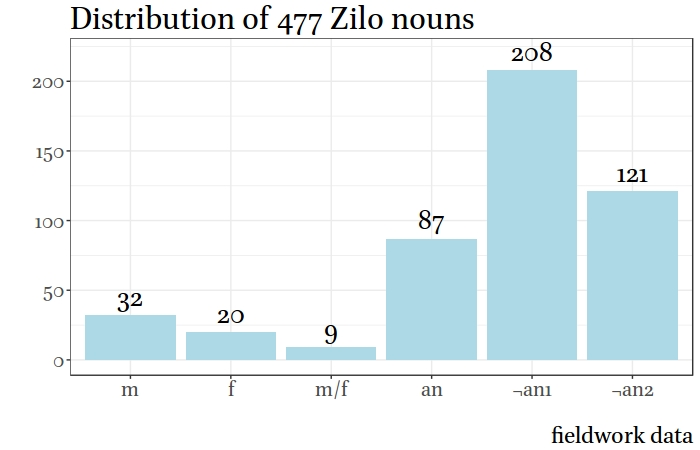
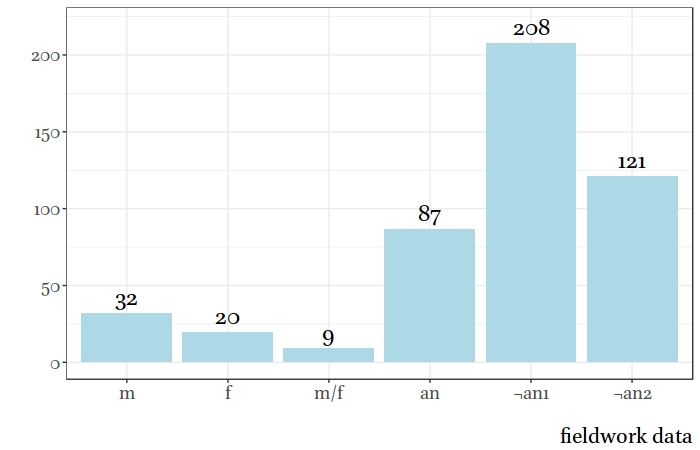
add last variant

diff --git a/18.05.11_Verhees_Moroz_Zilo_gender.tex b/18.05.11_Verhees_Moroz_Zilo_gender.tex
@@ -22,20 +22,19 @@
 \framepic{images/01-map-all}
 
 \begin{frame}{Andi and their neighbors}
-\Large
 \begin{itemize}
 \item Nakh
 \begin{itemize}
-\item \Large Chechen
+\item Chechen
 \end{itemize}
 \item Avaro-Andic-Tsezic
 \begin{itemize}
-\item \Large Avar
-\item \Large Andi
+\item Avar
+\item Andi
 \begin{itemize}
-\item \Large Botlikh
-\item \Large Karata
-\item \Large Andi
+\item Botlikh
+\item Karata
+\item Andi
 \end{itemize}
 \end{itemize}
 \end{itemize} \pause
@@ -50,7 +49,6 @@ All Andi speakers are multilingual:
 
 % Введение
 \begin{frame}{Gender systemes}
-\Large 
 \begin{itemize}
 \item The impact the systems have most notably on verbal agreement, but also on some adjective, numeral, adverbial, pronominal, and postpositional agreement. 
 \item Some POS agree with absolutive argument of the clause. Some  POS agree with its head.
@@ -68,15 +66,15 @@ All Andi speakers are multilingual:
 \begin{tabular}{|l|l|c|c|c|c|c|c|c|c|}
 \hline
 \multicolumn{3}{|c|}{}  & \textsc{m} & \textsc{f} & \textsc{an} & \textsc{¬an} 1 & \textsc{¬an} 2 & \textsc{¬an} 3 & \textsc{¬h} \\ \hline
-\multirow{2}{*}{\cite{alekseev99}} & \multirow{ 2}{*}{Andi} & \textsc{sg} & \multirow{2}{*}{\textit{w}} & \multirow{2}{*}{\textit{j}} & \textit{b} & \multirow{2}{*}{\textit{b}} & \multirow{2}{*}{\textit{r}} & \multicolumn{2}{|c|}{\multirow{2}{*}{\textit{-}}}  \\ \cline{3-3} \cline{6-6}
+\multirow{2}{*}{\citep{alekseev99}} & \multirow{ 2}{*}{Andi} & \textsc{sg} & \multirow{2}{*}{\textit{w}} & \multirow{2}{*}{\textit{j}} & \textit{b} & \multirow{2}{*}{\textit{b}} & \multirow{2}{*}{\textit{r}} & \multicolumn{2}{|c|}{\multirow{2}{*}{\textit{-}}}  \\ \cline{3-3} \cline{6-6}
  &  & \textsc{pl} & \textit{} & \textit{} & \textit{j} & \textit{} & \textit{} & \multicolumn{2}{|c|}{} \\ \hline
-\multirow{2}{*}{\cite{salimov10}} & \multirow{2}{*}{Gagatli} & \textsc{sg} & \multirow{2}{*}{\textit{w}} & \multirow{2}{*}{\textit{j}} & \textit{b} & \multirow{2}{*}{\textit{b}} & \multirow{2}{*}{\textit{r}} & \multicolumn{2}{|c|}{\multirow{2}{*}{\textit{-}}} \\ \cline{3-3} \cline{6-6}
+\multirow{2}{*}{\citep{salimov10}} & \multirow{2}{*}{Gagatli} & \textsc{sg} & \multirow{2}{*}{\textit{w}} & \multirow{2}{*}{\textit{j}} & \textit{b} & \multirow{2}{*}{\textit{b}} & \multirow{2}{*}{\textit{r}} & \multicolumn{2}{|c|}{\multirow{2}{*}{\textit{-}}} \\ \cline{3-3} \cline{6-6}
  &  & \textsc{pl} & \textit{} & \textit{} & \textit{j} & \textit{} & \textit{} & \multicolumn{2}{|c|}{} \\ \hline
-\multirow{2}{*}{\cite{suleymanov57}} & \multirow{2}{*}{Rikwani} & \textsc{sg} & \multirow{2}{*}{\textit{w}} & \textit{j} & \textit{b} & \multirow{2}{*}{\textit{b}} & \multirow{2}{*}{\textit{r}} & \textit{b} & \multirow{2}{*}{\textit{-}} \\ \cline{3-3} \cline{6-6} \cline{9-9}
+\multirow{2}{*}{\citep{suleymanov57}} & \multirow{2}{*}{Rikwani} & \textsc{sg} & \multirow{2}{*}{\textit{w}} & \textit{j} & \textit{b} & \multirow{2}{*}{\textit{b}} & \multirow{2}{*}{\textit{r}} & \textit{b} & \multirow{2}{*}{\textit{-}} \\ \cline{3-3} \cline{6-6} \cline{9-9}
  & & \textsc{pl} & \textit{} & \textit{} & \textit{j} & \textit{} & \textit{} & \textit{r} &  \\ \hline
 \multirow{2}{*}{fieldwork} & \multirow{2}{*}{Zilo} & \textsc{sg} & \multirow{2}{*}{\textit{w}} & \multirow{2}{*}{\textit{j}} & \textit{b} & \multirow{2}{*}{\textit{b}} & \multirow{2}{*}{\textit{r}} & \multicolumn{2}{|c|}{\multirow{2}{*}{\textit{-}}}  \\ \cline{3-3} \cline{6-6}
  & & \textsc{pl} & \textit{} & \textit{} & \textit{j}& \textit{} & \textit{} & \multicolumn{2}{|c|}{}  \\ \hline
-\multirow{2}{*}{\cite{suleymanov57}} & \multirow{2}{*}{Muni} & \textsc{sg} & \multirow{2}{*}{\textit{w}} & \multirow{2}{*}{\textit{j}} & \multicolumn{4}{|c|}{\multirow{2}{*}{\textit{-}}}  & \multirow{2}{*}{\textit{b}} \\ \cline{3-3}
+\multirow{2}{*}{\citep{suleymanov57}} & \multirow{2}{*}{Muni} & \textsc{sg} & \multirow{2}{*}{\textit{w}} & \multirow{2}{*}{\textit{j}} & \multicolumn{4}{|c|}{\multirow{2}{*}{\textit{-}}}  & \multirow{2}{*}{\textit{b}} \\ \cline{3-3}
  & & \textsc{pl} & \textit{} & \textit{} & \multicolumn{4}{|c|}{} &  \\ \hline
 \end{tabular}
 \normalsize
@@ -101,13 +99,13 @@ All Andi speakers are multilingual:
 \begin{tabular}{|l|l|c|c|c|c|c|c|c|}
 \hline
 \multicolumn{ 3}{|l|}{}& \textsc{m} & \textsc{f} & \multicolumn{ 4}{c|}{\textsc{¬h}} \\ \hline
-\multirow{ 2}{*}{\cite[41]{alekseev97}} & \multirow{ 2}{*}{Avar} & \textsc{sg} & \textit{w} & \textit{j} & \multicolumn{ 4}{c|}{\textit{b}} \\ \cline{ 3- 9}
+\multirow{ 2}{*}{\citep{alekseev97}} & \multirow{ 2}{*}{Avar} & \textsc{sg} & \textit{w} & \textit{j} & \multicolumn{ 4}{c|}{\textit{b}} \\ \cline{ 3- 9}
 \multicolumn{ 1}{|l|}{} & \multicolumn{ 1}{l|}{} & \textsc{pl} & \multicolumn{ 6}{c|}{\textit{r/l}} \\ \hline
-\multirow{ 2}{*}{\cite[41]{magomedbekova71}} & \multirow{ 2}{*}{Karata} & \textsc{sg} & \textit{w} & \textit{j} & \multicolumn{ 4}{c|}{\textit{b}} \\ \cline{ 3- 9}
+\multirow{ 2}{*}{\citep{magomedbekova71}} & \multirow{ 2}{*}{Karata} & \textsc{sg} & \textit{w} & \textit{j} & \multicolumn{ 4}{c|}{\textit{b}} \\ \cline{ 3- 9}
 \multicolumn{ 1}{|l|}{} & \multicolumn{ 1}{l|}{} & \textsc{pl} & \multicolumn{ 2}{c|}{\textit{b}} & \multicolumn{ 4}{c|}{\textit{r}} \\ \hline
-\multirow{ 2}{*}{\cite[253--254]{gudava62}} & \multirow{ 2}{*}{Botlikh} & \textsc{sg} & \textit{w} & \textit{j} & \multicolumn{ 4}{c|}{\textit{b/m}} \\ \cline{ 3- 9}
+\multirow{ 2}{*}{\citep{gudava62}} & \multirow{ 2}{*}{Botlikh} & \textsc{sg} & \textit{w} & \textit{j} & \multicolumn{ 4}{c|}{\textit{b/m}} \\ \cline{ 3- 9}
 \multicolumn{ 1}{|l|}{} & \multicolumn{ 1}{l|}{} & \textsc{pl} & \multicolumn{ 2}{c|}{\textit{b}} & \multicolumn{ 4}{c|}{\textit{r/n}} \\ \hline
-\multirow{ 2}{*}{\cite[21--22]{nichols94}} & \multirow{ 2}{*}{Chechen} & \textsc{sg} & \textit{w} & \textit{j} & \multirow{ 2}{*}{\textit{j}} & \multirow{ 2}{*}{\textit{d}} & \multirow{ 2}{*}{\textit{b}} & \textit{b} \\ \cline{ 3- 5} \cline{ 9- 9}
+\multirow{ 2}{*}{\citep{nichols94}} & \multirow{ 2}{*}{Chechen} & \textsc{sg} & \textit{w} & \textit{j} & \multirow{ 2}{*}{\textit{j}} & \multirow{ 2}{*}{\textit{d}} & \multirow{ 2}{*}{\textit{b}} & \textit{b} \\ \cline{ 3- 5} \cline{ 9- 9}
 \multicolumn{ 1}{|l|}{} & \multicolumn{ 1}{l|}{} & \textsc{pl} & \textit{b} & \textit{d} &  & & & \textit{d} \\ \hline
 \end{tabular}
 \vfill
@@ -117,11 +115,11 @@ All Andi speakers are multilingual:
 \end{itemize}
 \end{frame}
 
-\framepic{images/02-zilo-classes}{}
+\framepic{images/02-zilo-classes}{\alert{\Large Distribution of 477 Zilo nouns}}
 
 \framecard[colorblue]{{\color{colorwhite} \huge Gender attribution experiment}}
 
-\begin{frame}{Experiment: set up}
+\begin{frame}{Experiment: Set up}
 \alert{How speakers decide about new words?}
 \begin{itemize}
 \item collect 25 native and 25 loan words of \textsc{an} 1 gender
@@ -133,7 +131,7 @@ All Andi speakers are multilingual:
 \end{itemize}
 \end{frame}
 
-\begin{frame}{Experiment: words}
+\begin{frame}{Experiment: Selected Words}
 \begin{multicols}{2}
 \begin{itemize}
 \item[22]    kots'i broom
@@ -167,68 +165,70 @@ All Andi speakers are multilingual:
 \end{multicols}
 \end{frame}
 
-\begin{frame}{Inter-rater reliability}
-Заданные вопросы можно было бы переиначить в рамках статистической задачи измерения согласия. Мы будем использовать метода перечисленные в работе \citep{hallgren12}.
-
-\begin{block}{Процент согласия}
-высчитывается как количество случае абсолютного согласия:
-$\frac{79}{106} = 0.745283$
-\end{block}
-\begin{block}{Fleiss' κ}
-Fleiss' κ for 16 Raters = 0.849 , z = 95.7, p-value = 0
+\begin{frame}{Experiment: Inter-rater Reliability}
+\small
+\begin{tabular}{|l|r|r|r|l|}
+\hline
+ & \multicolumn{1}{l|}{\% agreem.} & \multicolumn{1}{l|}{Fleiss' Kappa} & \multicolumn{1}{l|}{z-score} & \citep{fleiss71} \\ \hline
+all stimuli & 74.5 & 0.849 & 95.7 & Almost perfect agreement\\ \hline
+native stimuli & 84.2 & 0.937 & 77.5 & Almost perfect agreement \\ \hline
+borowings & 63.3 & 0.732 & 56.1 & Substantial agreement \\ \hline
+\end{tabular}
+\normalsize
+\vfill
+\pause
 \begin{itemize}
-\item    Poor agreement — Less than 0.20
-\item    Fair agreement — 0.20 to 0.40
-\item    Moderate agreement — 0.40 to 0.60
-\item    Good agreement — 0.60 to 0.80
-\item    Very good agreement — 0.80 to 1.00
+\item very high agreement among speakers
+\item very high but not ideal agreement  among speakers in native lexicon
+\item smaller but still high agreement  among speakers in borrowing lexicon
 \end{itemize}
-\end{block}
 \end{frame}
 
-\begin{frame}{Слова с вариативностью}
-27 вариативных слов; 16 с более чем одним респондентами: \bigskip\\
+\begin{frame}{Experiment: Variable Words}
+27 variable words with more then one speaker: \bigskip\\
 
 \small
 \begin{tabular}{|l|l|l|l|l|l|}
 \hline
-id & зиловский & русский & источник & b & r \\ \hline
-45 & patʃka & пачка & loan & 3 & 13 \\ \hline
-64 & antena & антенна & loan & 3 & 13 \\ \hline
-101 & paket & пакет & loan & 3 & 13 \\ \hline
-17 & χur & поле, огород & native & 4 & 12 \\ \hline
-44 & provod & провод & loan & 4 & 12 \\ \hline
-70 & ɡol & гол & loan & 5 & 11 \\ \hline
-21 & simkarta & сим-карта & loan & 6 & 10 \\ \hline
-24 & zatʃetka & зачетка & loan & 6 & 10 \\ \hline
-2 & vaɡon & вагон & loan & 9 & 7 \\ \hline
-20 & odoruk'a & бабочка & native & 9 & 7 \\ \hline
-39 & kalendarʲ & календарь & loan & 9 & 7 \\ \hline
-75 & plastɨrʲ & пластырь & loan & 10 & 6 \\ \hline
-41 & sputnʲik & спутник & loan & 12 & 4 \\ \hline
-98 & raketa & ракета & loan & 12 & 4 \\ \hline
-71 & kometa & комета & loan & 14 & 2 \\ \hline
-72 & lift & лифт & loan & 14 & 2 \\ \hline
+id & Zilo & English & source & \textsc{an} 1 & \textsc{an} 2 \\ \hline
+45 & patʃka & packet & loan & 3 & 13 \\ \hline
+64 & antena & antenna & loan & 3 & 13 \\ \hline
+101 & paket & packet & loan & 3 & 13 \\ \hline
+17 & χur & field, garden & native & 4 & 12 \\ \hline
+44 & provod & line & loan & 4 & 12 \\ \hline
+70 & ɡol & goal & loan & 5 & 11 \\ \hline
+21 & simkarta & SIM card& loan & 6 & 10 \\ \hline
+24 & zatʃetka & students record-book & loan & 6 & 10 \\ \hline
+2 & vaɡon & train car & loan & 9 & 7 \\ \hline
+20 & odoruk'a & butterfly & native & 9 & 7 \\ \hline
+39 & kalendarʲ & calendar & loan & 9 & 7 \\ \hline
+75 & plastɨrʲ & plaster & loan & 10 & 6 \\ \hline
+41 & sputnʲik & satellite & loan & 12 & 4 \\ \hline
+98 & raketa & rocket & loan & 12 & 4 \\ \hline
+71 & kometa & comet & loan & 14 & 2 \\ \hline
+72 & lift & lift & loan & 14 & 2 \\ \hline
 \end{tabular}
 \end{frame}
 
-\begin{frame}{Предварительные выводы и вопросы}
+\framepic{images/03-clusterisation}{\Large \alert{Experiment: Speakers' Hierarchical Clustering}}
+
+\begin{frame}{Experiment: conclusion}
 \begin{itemize}
-\item Вариативность в области классной категоризации есть.
-\item Вариативность сосредоточена в области заимствованных слов.
-\item Вариативность симметрична. Нет крена в сторону какого-то одного класса.
-\item Интересно сравнить с результатами экспериментов с искусственными словами (ср. польский родительный в работе\\ \ \hfill\citep{dabrowska05})
-\item \textit{odoruk'a} `бабочка'! Что с другими словами 6-ого рикванинского класса?
+\item There is a variability in gender attribution even in native words
+\item Gender attribution in borrowings are more variable then native words
+\item Variability is symmetrical: there is no \textsc{an} 1 or \textsc{an} 2 gender preference
+\item Variability is somehow connected with the age, and not with the gender \pause
+\item It is interesting to compare these results with results of non-words experiments (compare with \citep{dabrowska05})
 \end{itemize}
 \end{frame}
 
-\framecard[colorblue]{{\color{colorwhite} \huge Спасибо за внимание! \bigskip\\
-\Large Пишите письма\\
+\framecard[colorblue]{{\color{colorwhite} \huge Thank you! \bigskip\\
+\Large Send us a mail!\\
 agricolamz@gmail.com\\
 jh.verhees@gmail.com}}
 
 %\begin{frame}[allowframebreaks]{Список литературы}
-\begin{frame}{Список литературы}
+\begin{frame}{References}
 \footnotesize
 \bibliographystyle{chicago}
 \bibliography{bibliography}
